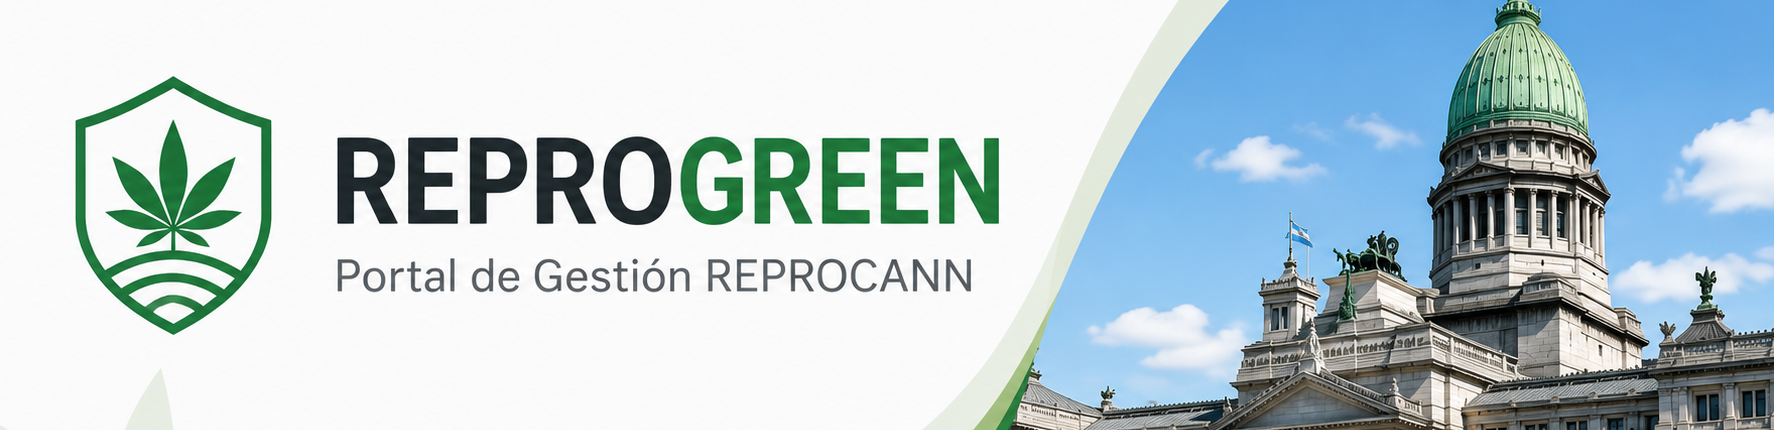
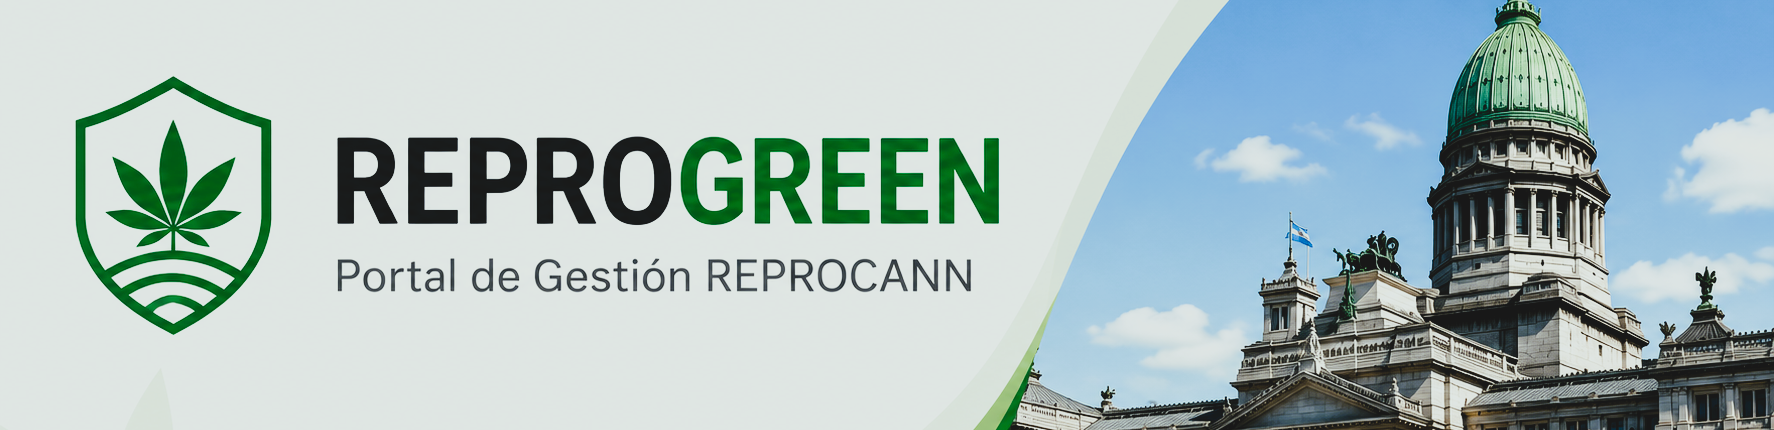
Lo que cambiaste

diff --git a/nosotros.html b/nosotros.html
@@ -34,29 +34,24 @@ body{
     margin:0;
     font-family:Arial,sans-serif;
 
-    background:#eef3f8 url("img/fondo.png") no-repeat top center;
-    background-size:cover;
-    background-attachment:fixed;
+    background:#E8F0F4; 
+    background-image: url("img/fondo.png");
+    background-repeat: no-repeat;
+    background-position: top center;
+    background-size:100% auto;
 
     min-height:100vh;
-
-    display:flex;
-    flex-direction:column;
 }
 
 .contenedor{
     flex:1;
-
-    display:flex;
-    justify-content:center;
-    align-items:center;
-
     width:100%;
     max-width:700px;
-
     margin:0 auto;
-
-    padding:30px;
+    padding:180px 30px 40px;
+    background-color:#eef3f8;
+    position:relative;
+    z-index:1;
 }
 
 footer{
@@ -239,69 +234,149 @@ color:#666;
 
 }
 
-.trabajamos{
+/*==========================
+CELULAR
+==========================*/
 
-margin-top:40px;
+@media (max-width:768px){
 
-background:#eef8f2;
+body{
 
-border-radius:14px;
+    background:#eef3f8 url("img/fondomobile.png") no-repeat top center;
 
-padding:18px 20px;
+    background-size:cover;
 
-display:flex;
-
-gap:22px;
-
-align-items:flex-start;
-
-border-left:6px solid #2b8a57;
+    background-attachment:scroll;
 
 }
 
-.trabajamos-icono{
+/* Banner */
 
-width:62px;
+.banner{
+    height:170px;
+}
 
-height:62px;
+.banner img{
+    width:100%;
+    height:100%;
+    object-fit:cover;
+    object-position:center;
+}
 
-border-radius:50%;
+/* Contenido */
 
-background:#2b8a57;
+.contenedor{
+    width:100%;
+    padding:150px 22px 40px;
+}
 
-display:flex;
+.titulo-superior{
+    font-size:14px;
+    letter-spacing:3px;
+}
 
-justify-content:center;
+h1{
+    font-size:58px;
+    line-height:1.05;
+    margin:8px 0 15px;
+}
 
-align-items:center;
+.subtitulo{
+    font-size:18px;
+    line-height:1.6;
+    max-width:100%;
+}
 
-color:#fff;
-
-font-size:28px;
-
-flex-shrink:0;
+.menu-btn{
+    top:18px;
+    right:18px;
+}
 
 }
 
-.trabajamos h3{
+@media (max-width:480px){
 
-font-size:28px;
+.banner{
+    height:145px;
+}
 
-color:#1f7d4d;
+.contenedor{
+    padding:130px 18px 35px;
+}
 
-margin-bottom:12px;
+.titulo-superior{
+    font-size:12px;
+}
+
+h1{
+    font-size:44px;
+}
+
+.subtitulo{
+    font-size:16px;
+    line-height:1.5;
+}
+
+.menu-btn{
+    width:46px;
+    height:46px;
+    top:15px;
+    right:15px;
+}
 
 }
 
-.trabajamos p{
+/*==========================
+BANNER
+==========================*/
 
-font-size:16px;
+.hero{
 
-line-height:1.8;
+    width:100%;
 
-color:#666;
+    background:#fff;
 
-last-child{margin-bottom: 0;}
+}
+
+.hero picture{
+
+    display:block;
+
+    width:100%;
+
+}
+
+.hero img{
+
+    display:block;
+
+    width:100%;
+
+    max-width:1300px;
+
+    margin:auto;
+
+}
+
+@media(max-width:768px){
+
+.hero img{
+
+    width:100%;
+
+}
+
+.hero img{
+
+    width:100%;
+
+}
+
+main{
+
+    padding:100px 18px;
+
+}
 
 }
 
@@ -525,11 +600,11 @@ MENU LATERAL
 
 </nav>
 
-<main>
-
 <div class="menu-btn" onclick="abrirMenu()">
     <i class="fas fa-bars"></i>
 </div>
+
+<main>
 
 <span class="subtitulo">
 
@@ -621,38 +696,6 @@ Nuestro objetivo es brindar una experiencia clara, organizada y accesible, facil
 
             Creemos en la transparencia, el compromiso, la cercanía, la innovación
             y el respeto por cada usuario que confía en nuestro trabajo.
-
-        </p>
-
-    </div>
-
-</div>
-
-</div>
-
-<div class="trabajamos">
-
-    <div class="trabajamos-icono">
-
-        <i class="fa-solid fa-shield-halved"></i>
-
-    </div>
-
-    <div>
-
-        <h3>Trabajamos para vos</h3>
-
-        <p>
-
-            Trabajamos para que cada usuario pueda realizar el seguimiento de su solicitud
-            de manera simple, segura y desde cualquier dispositivo.
-
-        </p>
-
-        <p>
-
-            Nuestro compromiso es brindar una experiencia clara, organizada y confiable,
-            acompañando cada gestión con información actualizada y atención personalizada.
 
         </p>
 

diff --git a/index.html b/index.html
@@ -25,7 +25,7 @@ href="https://cdnjs.cloudflare.com/ajax/libs/font-awesome/6.5.2/css/all.min.css"
 }
 
 body{
-    background:linear-gradient(180deg,#f4f8fb,#edf3f8);
+    background:linear-gradient(180deg,#ffffff,#edf3f8);
     color:#333;
 }
 
